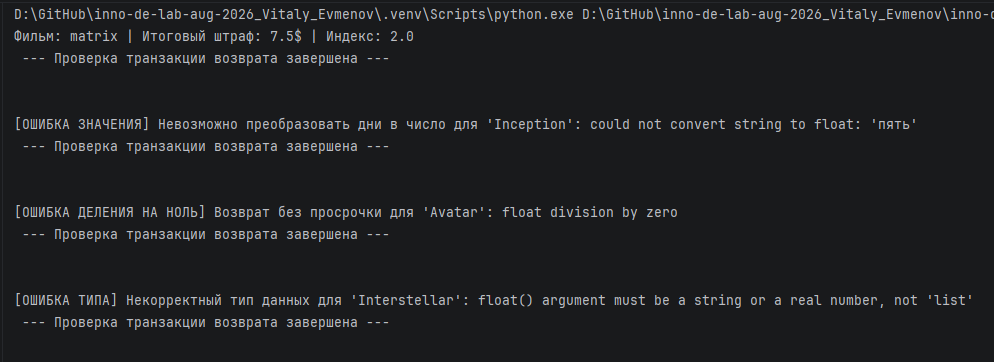
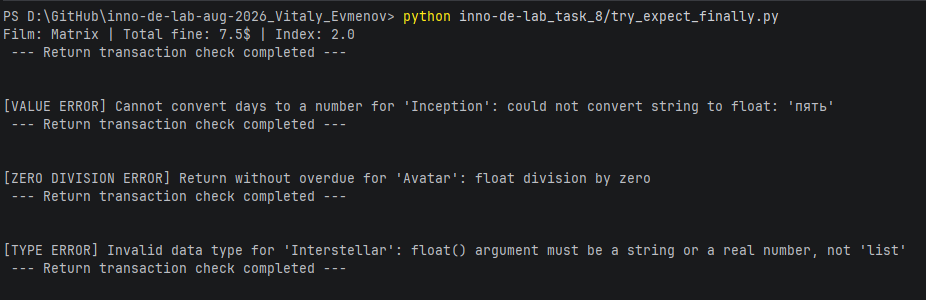
fix: all files

diff --git a/inno-de-lab_task_8/analization.py b/inno-de-lab_task_8/analization.py
@@ -1,69 +1,103 @@
 import time
+from typing import Any, Callable
 
 from CONSTANTS import PERFORMANCE_LOG_PREFIX, TIME_DECIMALS
 
 # initialize data
-case_standard:  list[dict[str, str | float]] = [
+case_standard: list[dict[str, str | float]] = [
     {"category": "Action", "total_sales": 4311.85},
     {"category": "Animation", "total_sales": 4656.30},
     {"category": "Children", "total_sales": 3655.55}
 ]
-case_identical_revenue:  list[dict[str, str | float]] = [
+case_identical_revenue: list[dict[str, str | float]] = [
     {"category": "Classics", "total_sales": 1200.10},
     {"category": "Comedy", "total_sales": 4000.00},
     {"category": "Documentary", "total_sales": 4000.00}
 ]
-case_single_item:  list[dict[str, str | float]] = [
+case_single_item: list[dict[str, str | float]] = [
     {"category": "Drama", "total_sales": 500.00}
 ]
 
-def print_result(result: list[dict[str, str | float]], test_index: int) -> None:
+
+def print_result(result: list[dict[str, str | float]]) -> None:
+    """Prints the top categories by revenue.
+
+    Prints a numbered list of categories with their total sales.
+    The test_index parameter is passed for interface compatibility,
+    but is not used when generating the output.
+
+    Args:
+        result: A list of dictionaries with keys 'category' and 'total_sales'.
+        test_index: The test index (integer).
+
+    Returns:
+        None
     """
-    prints result
-    :param result: dictionary list to print
-    :param test_index: index of test
-    :return: no return value
-    """
-    print("Топ категорий по выручке:")
+    print("Top categories by revenue:")
     for index, item in enumerate(result):
-        print(f"{index + 1}: {item['category']}: {item['total_sales']}")
+        print(f"{index + 1}: {item['category']}: {float(item['total_sales'])}")
     print("\n\n")
 
-def performance_logger(func):
+
+def performance_logger(func: Callable[..., Any]) -> Callable[..., Any]:
+    """Decorator for measuring and logging function execution time.
+
+    Wraps the target function, measuring its execution time
+    using time.perf_counter().
+
+    Args:
+        func: The function whose execution time needs to be measured.
+
+    Returns:
+        A wrapper function that performs the time measurement,
+        prints a log message, and returns the result of the original function.
     """
-    decorator for performance logger
-    :param func: function, which execution time calculates
-    :return: return function
-    """
-    def wrapper(*args, **kwargs):
+    def wrapper(*args: Any, **kwargs: Any):
+        """Executes the time measurement and calls the decorated function.
+
+        Records the time before and after the original function execution,
+        calculates the duration, and prints a message to the console.
+
+        Args:
+            *args: Positional arguments passed to the decorated function.
+            **kwargs: Keyword arguments passed to the decorated function.
+
+        Returns:
+            The result of the decorated function execution.
         """
-        calculates execution time
-        :param args: *args
-        :param kwargs: **kwargs
-        :return: execution time
-        """
-        time_start = time.perf_counter()
-        result = func(*args, **kwargs)
-        time_end = time.perf_counter()
-        execution_time = time_end - time_start
-        print(f"{PERFORMANCE_LOG_PREFIX} Функция '{func.__name__}' выполнена за {execution_time:{TIME_DECIMALS}f} сек")
+        time_start: float = time.perf_counter()
+        result: Any = func(*args, **kwargs)
+        time_end: float = time.perf_counter()
+        execution_time: float = time_end - time_start
+        print(f"{PERFORMANCE_LOG_PREFIX} Function '{func.__name__}' executed in {execution_time:.{TIME_DECIMALS}f} sec")
         return result
     return wrapper
 
+
 @performance_logger
 def get_sorted_report(unsorted_report: list[dict[str, str | float]]) -> list[dict[str, str | float]]:
+    """Sorts the report by categories in descending order of revenue.
+
+    Uses the built-in sorted function with a lambda function
+    as the sorting key based on the 'total_sales' field.
+
+    Args:
+        unsorted_report: An unsorted list of dictionaries
+            containing category data and its revenue.
+
+    Returns:
+        A new list of dictionaries sorted by the 'total_sales' field
+        in descending order.
     """
-    sorts unsorted_report
-    :param unsorted_report: unsorted_data
-    :return: sorted_data
-    """
-    result = sorted(unsorted_report, key=lambda x: x["total_sales"], reverse=True)
+    result: list[dict[str, str | float]] = sorted(unsorted_report, key=lambda x: x["total_sales"], reverse=True)
     return result
 
+
 # printing results
-print(f"--- ТЕСТ 1 ---")
-print_result(get_sorted_report(case_standard), 1)
-print(f"--- ТЕСТ 2 ---")
-print_result(get_sorted_report(case_identical_revenue), 2)
-print(f"--- ТЕСТ 3 ---")
-print_result(get_sorted_report(case_single_item), 3)
+print("=== ТЕСТИРОВАНИЕ ПРОИЗВОДИТЕЛЬНОСТИ === \n")
+print(f"--- TEST 1 ---")
+print_result(get_sorted_report(case_standard))
+print(f"--- TEST 2 ---")
+print_result(get_sorted_report(case_identical_revenue))
+print(f"--- TEST 3 ---")
+print_result(get_sorted_report(case_single_item))

diff --git a/inno-de-lab_task_8/main.py b/inno-de-lab_task_8/main.py
@@ -1,18 +1,20 @@
 from CONSTANTS import MAX_RENTAL_BATCH_LIMIT
 
-def print_result(value: tuple[float, bool], test_index: int):
-    print(f"Тест {test_index + 1}")
-    print(f"Сумма: {value[0]}. Превышение лимита: {value[1]}")
-
-
 
 def calculate_rental_batch(quantity: int, rental_rate: float, discount: float = 0.0) -> tuple[float, bool]:
-    """
-    function calculates the rental batch
-    :param quantity: quantity of items
-    :param rental_rate: cost of one item
-    :param discount: discount for one item
-    :return: tuple, with data about final sum and limit
+    """Calculates the total cost for a rental batch.
+
+    Computes the final sum by applying the discount, rounding to two decimal places,
+    and checks whether the result exceeds the maximum rental batch limit.
+
+    Args:
+        quantity: The number of items in the batch.
+        rental_rate: The cost of a single item.
+        discount: The discount rate to apply (e.g., 0.1 for 10%). Defaults to 0.0.
+
+    Returns:
+        A tuple where the first element is the final rounded sum (float)
+        and the second element is a boolean indicating whether the limit was exceeded.
     """
     final_sum: float = quantity * rental_rate * (1 - discount)
     final_sum = round(final_sum, 2)
@@ -20,8 +22,8 @@ def calculate_rental_batch(quantity: int, rental_rate: float, discount: float = 
     return final_sum, is_limit_exited
 
 
-# test-1
-print("Тест-1")
+# Academy Dinosaur
+print("Партия 1 (Academy Dinosaur):")
 rental_batch: tuple[float, bool] = calculate_rental_batch(30, 2.99)
 print(f"Сумма: {rental_batch[0]}. Превышение лимита: {rental_batch[1]}")
 
@@ -29,10 +31,27 @@ rental_batch: tuple[float, bool] = calculate_rental_batch(quantity=30, rental_ra
 print(f"Сумма: {rental_batch[0]}. Превышение лимита: {rental_batch[1]}\n\n")
 
 
-# test-2
-print("Тест-2")
+# Affair Prejudice
+print("Партия 2 (Affair Prejudice):")
 rental_batch = calculate_rental_batch(40, 4.99, 0.1)
 print(f"Сумма: {rental_batch[0]}. Превышение лимита: {rental_batch[1]}")
 
 rental_batch = calculate_rental_batch(quantity=40, rental_rate=4.99, discount=0.1)
+print(f"Сумма: {rental_batch[0]}. Превышение лимита: {rental_batch[1]}\n\n")
+
+# Agent Truman
+print("Партия 3 (Agent Truman):")
+rental_batch: tuple[float, bool] = calculate_rental_batch(10, 1.99)
 print(f"Сумма: {rental_batch[0]}. Превышение лимита: {rental_batch[1]}")
+
+rental_batch: tuple[float, bool] = calculate_rental_batch(quantity=10, rental_rate=1.99)
+print(f"Сумма: {rental_batch[0]}. Превышение лимита: {rental_batch[1]}\n\n")
+
+
+# African Egg
+print("Партия 4 (African Egg):")
+rental_batch = calculate_rental_batch(50, 3.50, 0.2)
+print(f"Сумма: {rental_batch[0]}. Превышение лимита: {rental_batch[1]}")
+
+rental_batch = calculate_rental_batch(quantity=50, rental_rate=3.50, discount=0.2)
+print(f"Сумма: {rental_batch[0]}. Превышение лимита: {rental_batch[1]}\n\n")

diff --git a/inno-de-lab_task_8/try_expect_finally.py b/inno-de-lab_task_8/try_expect_finally.py
@@ -9,30 +9,39 @@ initialize_data = {
     "interstellar": ([3, ], 3.0)
 }
 
+
 def calculate_overdue_fine(film_name: str, days_overdue: Any, fine_rate: Any) -> tuple[float, float] | None:
-    """
-    function calculates the overdue free in the given film
-    :param film_name: name of the film
-    :param days_overdue: days of overdue payment
-    :param fine_rate: fine rate
-    :return: overdue free in the given film or None
+    """Calculates the overdue fine for a given film.
+
+    Converts days_overdue to a float, computes the total fine and a return index,
+    and handles various exceptions (TypeError, ValueError, ZeroDivisionError).
+
+    Args:
+        film_name: The name of the film.
+        days_overdue: The number of days the film is overdue. Must be convertible to float.
+        fine_rate: The daily fine rate. Multiplied by the numeric days to get total fine.
+
+    Returns:
+        A tuple containing (total_fine, return_index) if calculation succeeds,
+        or None if an exception occurs.
     """
     try:
         numeric_days = float(days_overdue)
         total_fine: float = numeric_days * fine_rate
         return_index: float = DEFAULT_RETURN_INDEX_BASE / numeric_days
-        print(f"Фильм: {film_name} | Итоговый штраф: {total_fine}$ | Индекс: {return_index}")
+        print(f"Film: {film_name.title()} | Total fine: {total_fine}$ | Index: {return_index}")
         return total_fine, return_index
     except TypeError:
-        print(f"[ОШИБКА ТИПА] Некорректный тип данных для '{film_name.title()}': float() argument must be a string or a real number, not '{type(days_overdue).__name__}' ")
+        print(f"[TYPE ERROR] Invalid data type for '{film_name.title()}': float() argument must be a string or a real number, not '{type(days_overdue).__name__}'")
     except ValueError:
-        print(f"[ОШИБКА ЗНАЧЕНИЯ] Невозможно преобразовать дни в число для '{film_name.title()}': could not convert string to float: '{days_overdue}'")
+        print(f"[VALUE ERROR] Cannot convert days to a number for '{film_name.title()}': could not convert string to float: '{days_overdue}'")
     except ZeroDivisionError:
-        print(f"[ОШИБКА ДЕЛЕНИЯ НА НОЛЬ] Возврат без просрочки для '{film_name.title()}': float division by zero ")
+        print(f"[ZERO DIVISION ERROR] Return without overdue for '{film_name.title()}': float division by zero")
     except Exception as e:
         print(e)
     finally:
-        print(" --- Проверка транзакции возврата завершена ---\n\n")
+        print(" --- Return transaction check completed ---\n\n")
+
 
 for name, data_tuple in initialize_data.items():
     calculate_overdue_fine(name, data_tuple[0], data_tuple[1])
